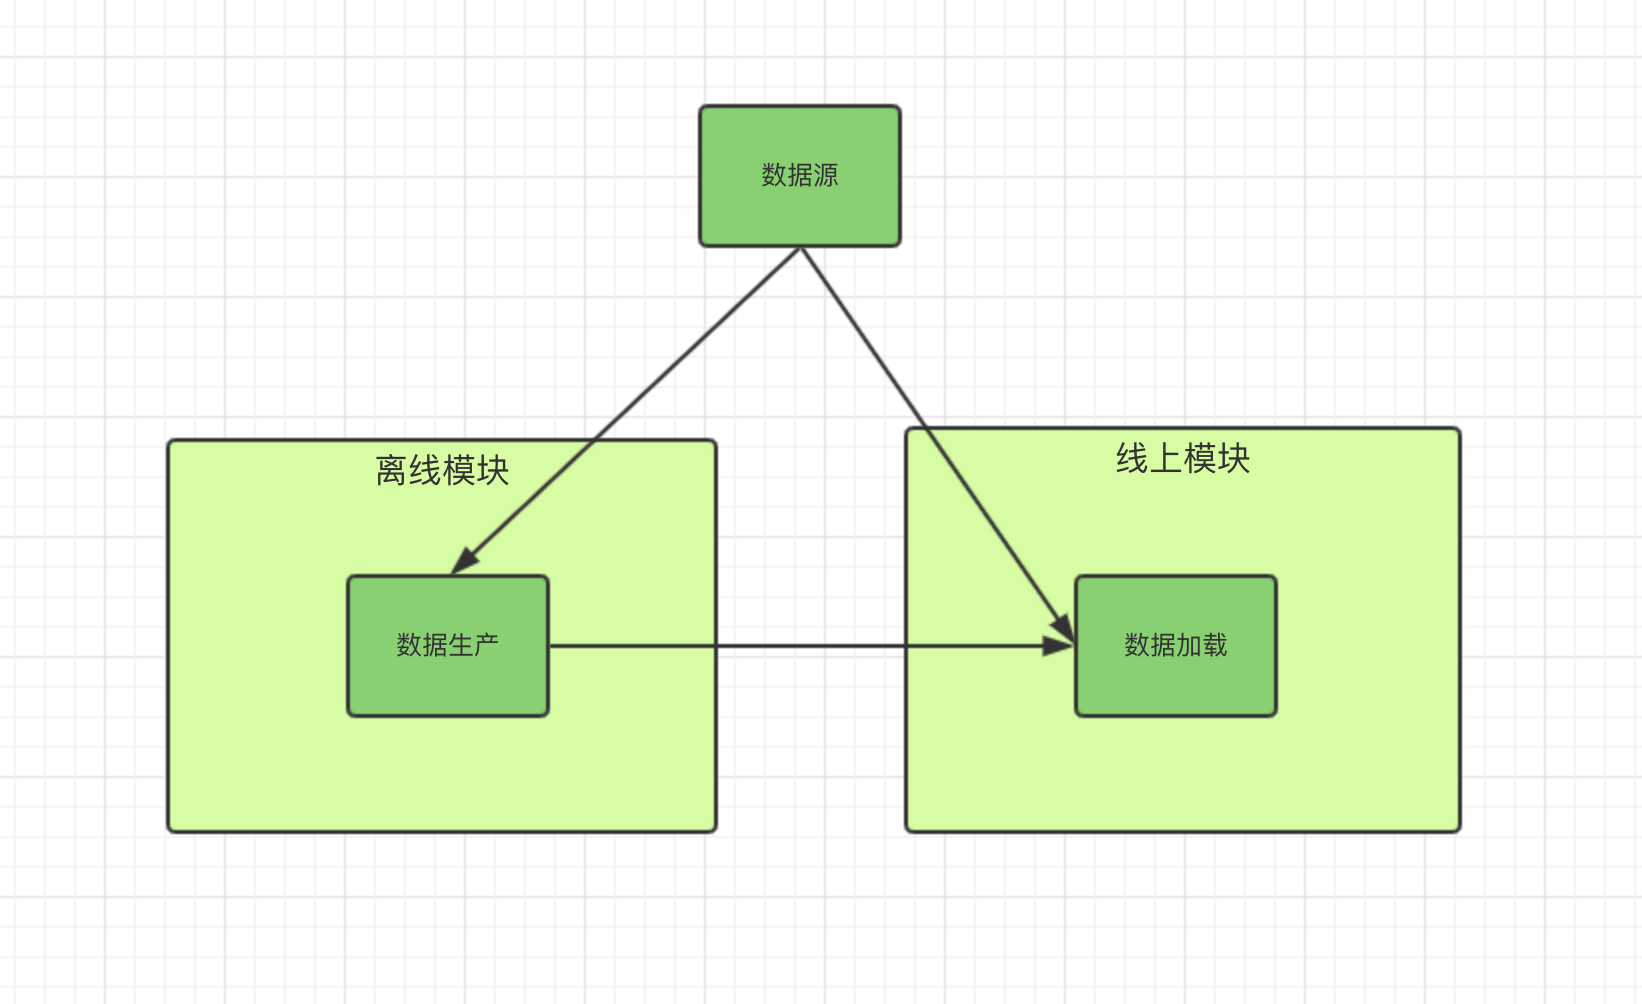
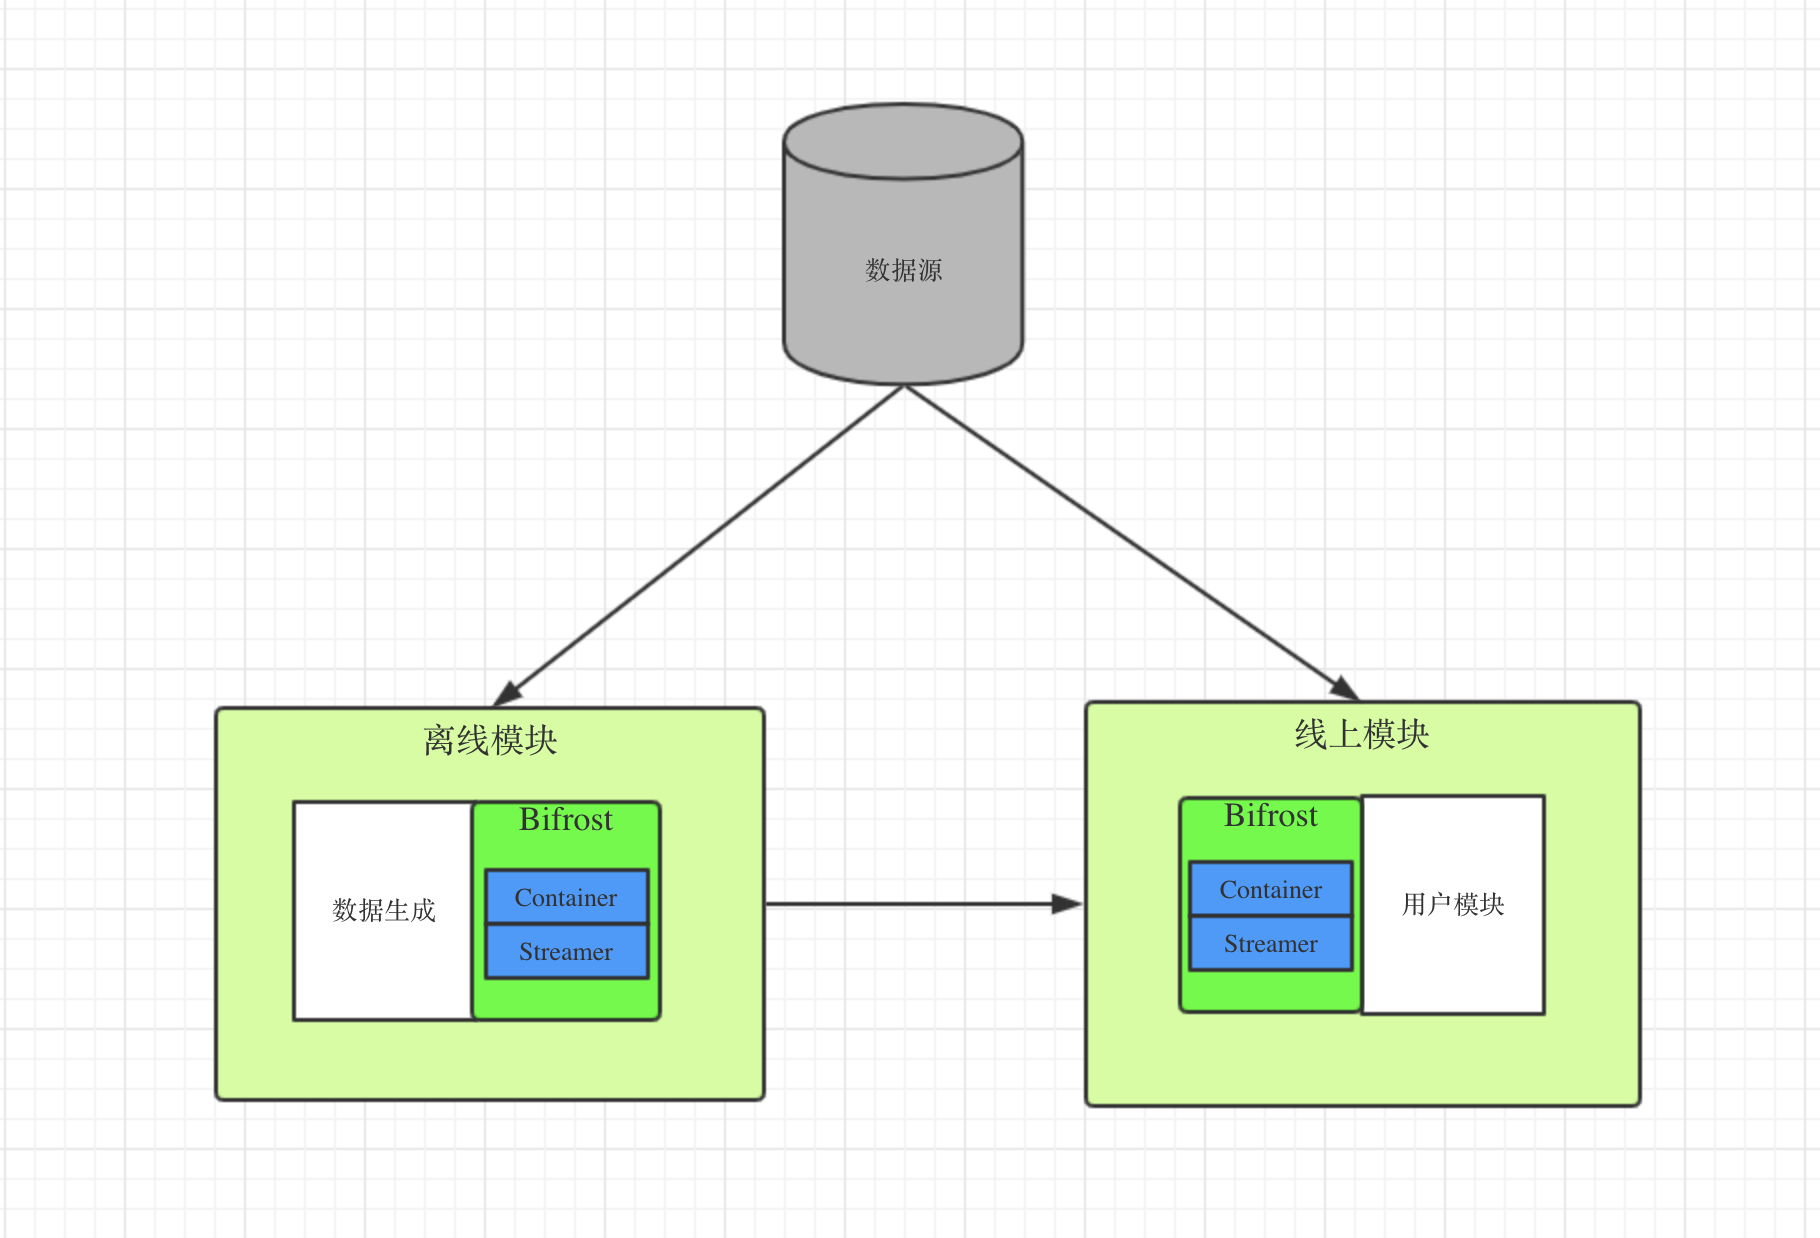
update readme

Changed region(s): [[0.0932, 0.0618, 0.9007, 0.8954]]

diff --git a/data/bifrost/streamer/data_parser.go b/data/bifrost/streamer/data_parser.go
@@ -1,9 +1,7 @@
 package streamer
 
-import (
-	"github.com/Mintegral-official/mtggokit/data/container"
-)
+import "github.com/Mintegral-official/mtggokit/data/container"
 
 type DataParser interface {
-	Parse([]byte) (container.MapKey, interface{}, error)
+	Parse([]byte) (container.DataMode, container.MapKey, interface{}, error)
 }

diff --git a/data/container/container.go b/data/container/container.go
@@ -10,7 +10,7 @@ type MapKey interface {
 type Container interface {
 	Get(key MapKey) (interface{}, error)
 	Set(key MapKey, value interface{}) error
-	Del(key MapKey) error
+	Del(key MapKey, value interface{})
 
 	LoadBase(dataIter DataIterator) error
 	LoadInc(dataIter DataIterator) error

diff --git a/data/bifrost/streamer/bifrost_streamer.go b/data/bifrost/streamer/bifrost_streamer.go
@@ -4,6 +4,7 @@ import "github.com/Mintegral-official/mtggokit/data/container"
 
 type BiFrostStreamerCfg struct {
 	Name         string
+	Version      int //数据格式的版本
 	IpPort       string
 	BaseFilePath string
 }

diff --git a/data/bifrost/streamer/bifrost_streamer_test.go b/data/bifrost/streamer/bifrost_streamer_test.go
@@ -1,0 +1,6 @@
+package streamer
+
+type TestDataT struct {
+	Name string
+	age  int
+}

diff --git a/data/bifrost/README.md b/data/bifrost/README.md
@@ -8,25 +8,154 @@ Bifrost取自北欧神话中是连结阿斯加德（Asgard）和 米德加尔特
 * 数据传输：支持多种传输（文件、socket等）
 * 数据加载：支持多种内存模型（分层k-v, 分层k-list），满足用户的不同需求
 
+用户可以通过简单的配置，使用该工具将本地文件、数据库中的数据加载到内存中。也支持自定义数据源，满足复杂的数据依赖关系和业务需求。
+
 # 架构设计
 
 ![flow_arch](pic/flow_arch.png)
 
+架构如上图，主要分为三个模块，数据源，线上模块，离线模块
 
+对于简单的数据，线上模块可以直接使用Bifrost功能读取数据源中的数据
 
+对于复杂的数据，需要离线模块，由用户自定义数据生成的方式，然后通过Bifrost工具生成数据流，线上的Bifrost直接读取线下Bifrost产生的数据。
 
+## Bifrost UML图
 
-Bifronst有两大组件， Container和Streamer
+![Bifrost UML图](pic/bifront_arch.png)
 
-Container是内存中相同数据集的抽象，主要是Key-Value， Key-List结构
+Bifrost有三个组件
 
-Streamer是数据源与Container之间的同步者
+1. Bifrost: 用户接口，
+   1. 注册、管理、更新Streamer
+   2. 提供数据查询接口
+   3. 提供增量更新服务
+2. Streamer
+   1. 数据源的抽象
+   2. 负责数据的更新，解析
+   3. 生成全量、增量数据
+3. Container
+   1. 数据的容器
+   2. 负责更新、维护内存中的数据
+   3. 常见的数据结构， KV型，K-List型
 
-一个完整的服务包含离线模块和线上模块
+## Container
 
-线上模块既可以从数据源中读数据，也可以离线模块读取数据。
+container是一个接口，代表存放数据的容器，Bifrost有两种实现，KV型map，K-List型map
 
-离线模块负责复杂逻辑的数据生产，基准、增量的生成，与线上模块的同步工作
+接口描述：
+
+```go
+const (
+	DataModeAdd    DataMode = 0
+	DataModeUpdate DataMode = 1
+	DataModeDel    DataMode = 2
+)
+
+// 数据迭代器
+type DataIterator interface {
+	HasNext() bool
+	Next() (DataMode, MapKey, interface{})
+}
+
+// key of the map, because of go-lang not support generic type，
+// So, here defined an interface for int value or string value key
+type MapKey interface {
+   PartitionKey() int64
+   Value() interface{}
+}
+
+type Container interface {
+   Get(key MapKey) (interface{}, error)
+   // 如果key相同， 会覆盖写
+   Set(key MapKey, value interface{}) error
+   Del(key MapKey, value interface{}) error
+
+   //全量更新
+   LoadBase(dataIter DataIterator) error
+   // 增量更新
+   LoadInc(dataIter DataIterator) error
+}
+```
+
+### KvMapContainer
+
+1. 全量更新采用双buffer机制
+2. 采用分桶加锁的方式实现多线程读写安全
+3. 增量更新遇到相同的key，最新的数据生效
+
+### KListMapContainer
+
+1. 全量更新采用双Buffer机制
+2. 采用分桶加锁的方式实现多线程读写安全
+3. 更新时遇到相同的key会合并到同一个list中
+4. 删除时只会删除key,value都相等的字段
+
+# Streamer
+
+streamer是一个数据源的接口，设计如下
+
+```go
+type DataParser interface {
+	Parse([]byte) (container.DataMode, container.MapKey, interface{}, error)
+}
+
+type DataStreamer interface {
+   SetContainer(container.Container)
+   GetContainer() container.Container
+   // 更新数据接口
+   UpdateData(ctx context.Context) error
+   // 继承
+   DataIterator
+}
+```
+
+Streamer会绑定一个Container, UpdateData接口会监控数据源是否发生变化，则会调用响应的接口更新Container里的数据。 实现DataIterator接口，可以让DataStreamer像迭代器一样工作。
+
+DataParser是一个数据解析的接口，需要用户自定义
+
+### 数据更新模式
+
+1. static 不更新
+2. dynamic 动态全量更新
+3. increase  全量更新一次，之后动态更定增量
+4. dynInc 定时全量更细，动态增量更新
+
+streamer之前没有依赖关系，每个streamer维护自己的更新进度即可，不需要统一的模块维护
+
+### 数据更新方式
+
+1. sync 同步更新
+2. async  异步更新
+
+## LocalFileStreamer
+
+FileStreamer代表本地文件文件
+
+1. 全量更新
+2. 增量更新 (一期暂不支持)
+3. 绑定Parser
+4. 错误处理
+   1. 回调方式（）
+   2. 打日志
+   3. 出现错误是否终止本次更新（用户可配置）
+5. 采用主动更新的方式
+
+## MongoStreamer
+
+MongoStreamer对应对应mongo数据里面的一张表。
+
+1. 支持全量增量（需用户定义全量、增量的语句）
+2. 全量增量的更新时间
+3. 增量语句的更新
+
+## BifrostStreamer
+
+自定义数据流，支持数据的全量增量的生成、和加载，分离线和在线两种工作模式。 
+
+离线模式：由用户产生数据（可同时产生多个streamer），并写入BifrostStreamer, BifrostStreamer会将数据写入container并将按要求产生基准、增量数据。一个离线模块可以看做是一个微服务
+
+在线模式：Bifrost会根据streamer的名字，去对应的地址拉取全量或增量数据，同时更新到container中。
 
 ### 离线模块基准、增量生成规则：
 
@@ -43,11 +172,12 @@ Streamer是数据源与Container之间的同步者
 
    ```go
    type Request struct {
-     name string // streamer name
-     prograss int // 同步进度
+     Name string // streamer name
+     Timestamp int // 更新时间
    }
    type Record struct {
      DataType int // 0 新增， 1 更新  2 删除
+     Timestamp int
      MapKey []MapKey
      Value interface
    }
@@ -56,98 +186,15 @@ Streamer是数据源与Container之间的同步者
    }
    ```
 
-## UML设计
-
-![bifrost_arch_uml](pic/bifront_arch.png)
-
-设计上主要分为三个组件
-1. Bifrost: 用户接口，
-   1. 注册、管理、更新Streamer
-   2. 提供数据查询接口
-   3. 提供增量更新服务
-2. Streamer
-   1. 数据源的抽象
-   2. 负责数据的更新，解析
-   3. 生成全量、增量数据
-3. Container
-   1. 数据的容器
-   2. 负责更新、维护内存中的数据
-
-## Streamer与Container的关系
+### Streamer与Container的关系
 
 Streamer代表数据源，Container则代表数据的内存组织方式。
 
 通常情况下Streamer跟Container是一对一的关系，特殊情况下也会出现一对多或者多对一的关系
 
 - 一对一：
-- 一对多：DirStreamer
-- 多对一：索引，基准增量来自不同的数据源
+- 多对一：索引的基准、增量来自不同的数据源
 
-## Streamer数据更新
+# For开发者
 
-### 数据更新模式
-
-1. static 不更新
-2. dynamic 动态全量更新
-3. increase  全量更新一次，之后动态更定增量
-4. dynInc 定时全量更细，动态增量更新
-
-### 数据更新方式
-
-1. sync 同步更新
-2. async  异步更新
-
-### Streamer之间的关系
-
-由于离线模块可以处理复杂的数据依赖关系，所以Streamer之间不需要依赖关系
-
-### Streamer更新流程
-
-Streamer没有依赖关系，各个Streamer自行更新
-
-~~Streamer根据数据源的不同会分为主动更新和被动更新~~
-
-~~主动更新会实时监控数据源变化，发现变化会自动触发更新，不需要Bifrost调度模块管理~~
-
-~~被动更新会定期的触发更新，由Bifrost调度模块统一管理~~
-
-~~对于同一个Streamer，若上次更新未完成，可根据用户配置决定是否终止上次更新~~
-
-~~数据更新失败用户可自定义错误处理函数~~
-
-~~Bifrost调度模块采用邮件队列~~
-
-## FileStreamer
-
-FileStreamer代表本地文件文件
-
-1. 全量更新
-2. 增量更新 (一期暂不支持)
-3. 绑定Parser
-4. 错误处理
-   1. 回调方式（）
-   2. 打日志
-   3. 出现错误是否终止本次更新（用户可配置）
-5. 采用主动更新的方式
-
-## DirStreamer
-
-DirStreamer代表一个目录，是一个虚拟的Streamer，本身不会关联container, 需要跟File联合使用，当发现新文件时，会创建FileStreamer,然后注册到Bifrost,当文件被删除时，会注销对应的Streamer
-
-1. Patten  文件名满足patten的才会创建streamer， 如不设置，加载所有文件
-2. GetParser(string) DataParser  根据文件名获取parser， 如返回DataParser为空，Streamer创建失败
-3. GetName(string) string   根据文件名获取streamer名字，如不设置就是文件名
-
-## MongoStreamer
-
-MongoStreamer对应对应mongo数据里面的一张表。
-
-1. 支持全量增量（需用户定义全量、增量的语句）
-2. 全量增量的更新时间
-3. 增量语句的更新
-
-Example
-
-## BifrostStreamer（支持）
-
-自定义数据流，支持数据的全量增量的生成、和加载
+Bifrost提供比较基础的container和streamer, 如不满足需要，可以自行开发，只要遵循支持设计接口即可
